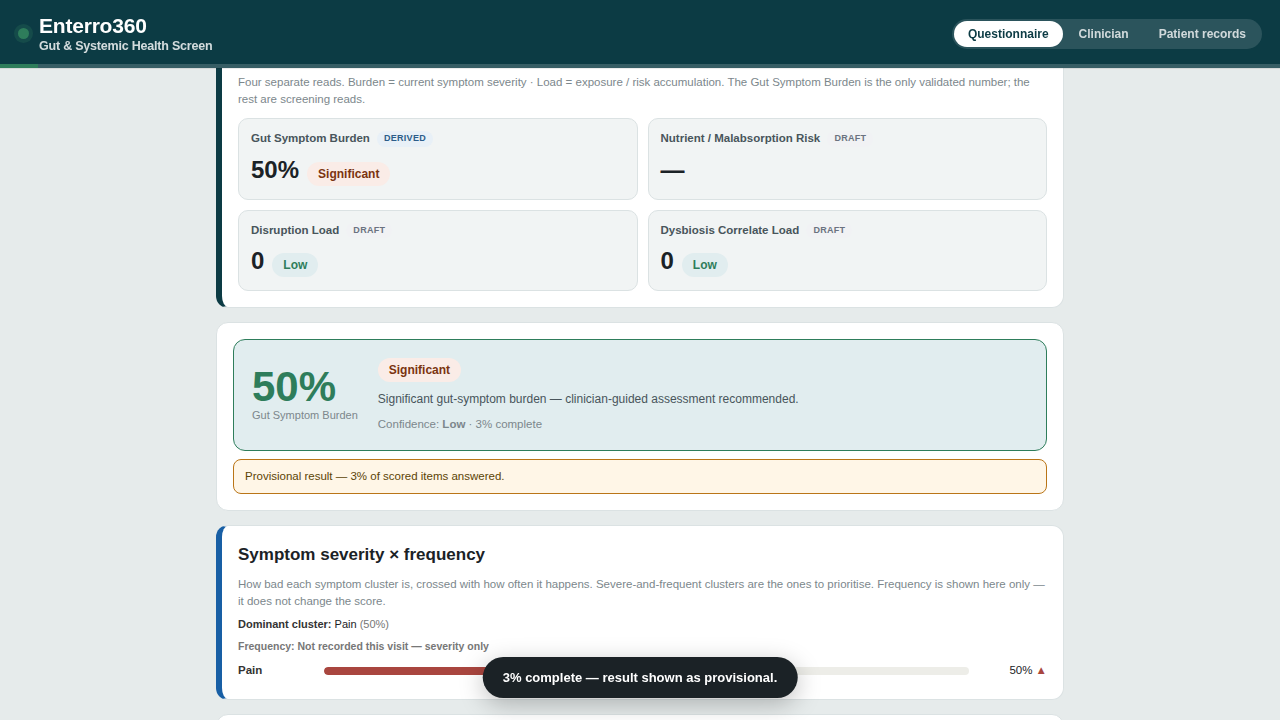
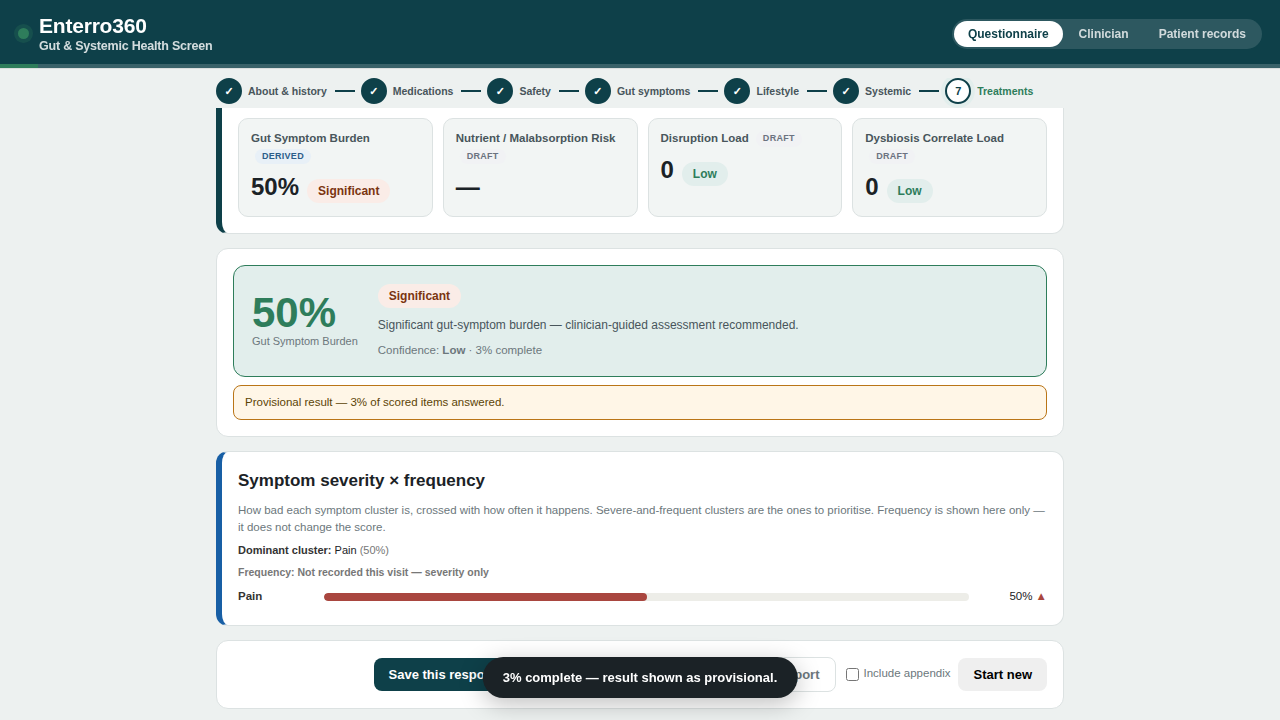
Report restructure: KPI band, priority-ranked patterns, tidied triage
Screen (renderClinician) and print (buildClinicianPrint) now share the same
structure — the D2 "screen = print" document:

- KPI band leads the whole report (promoted headlineCard(), now rendered as
  an auto-fitting tile band instead of a 2-column grid): the four headline
  reads, replacing the old single-stat hero. No longer duplicated further
  down in Interpretation.
- New "Patterns & mechanisms" section: the full ranked pattern list with
  rationale, closing out page 1 (after the burden matrix). Ranked by
  rankPatternsByPriority() — sorted by `strength` (how strongly the fired
  signals hit, an intensity/severity measure), NOT `confidence` (coverage —
  how much data we had), per direction. This is a display-only re-sort on a
  copy; clinicalImpression()'s leading-pattern pick (patterns[0], engine-
  ordered by confidence) and trend persistence are untouched.
- Suggested Actions moved to sit before the Longitudinal trend (was last) —
  a clinician reads the verdict + evidence and wants the action list next;
  the trend is a look-back, not part of deciding what to do this visit.
- triageCard() tidied: the ~17 individual "tri.xNote" one-line paragraphs
  (each its own coloured div) consolidated into a single "Clinical
  considerations" bulleted list — same information, one block instead of a
  wall of near-identical lines. Print's triage box was already this clean;
  only the on-screen version needed the fix.
[…]

diff --git a/index.html b/index.html
@@ -288,6 +288,13 @@ h1{font-size:22px}h2{font-size:17px;margin-bottom:8px}h3{font-size:14px}
   .pr-hero .big{font-size:36px;font-weight:800;color:var(--brand);line-height:.95}
   .pr-hero .sub{font-size:10px;color:#555;margin-top:2px}
   .pr-pill{display:inline-block;padding:2px 8px;border-radius:14px;font-size:10px;font-weight:700;margin-right:3px;border:1px solid rgba(0,0,0,.35)}
+  /* KPI band — the four headline reads as compact stat tiles, print's mirror
+     of the on-screen headlineCard()/kpi band. */
+  .pr-kpi{display:grid;grid-template-columns:repeat(4,1fr);gap:6px;margin-bottom:6px}
+  .pr-kpi-tile{border:1px solid #D0D0C8;border-radius:6px;padding:5px 8px;background:#fff}
+  .pr-kpi-tile .k{font-size:8px;font-weight:700;color:#777;text-transform:uppercase;letter-spacing:.02em}
+  .pr-kpi-tile .v{font-size:16px;font-weight:800;color:var(--brand);margin:1px 0 2px}
+  .pr-kpi-meta{font-size:9.5px;color:#777;margin-bottom:6px}
   .pr-alert{background:var(--alert-p);border:1px solid var(--alert);border-radius:6px;padding:6px 8px;margin-bottom:6px;page-break-inside:avoid;break-inside:avoid}
   .pr-alert-t{font-weight:700;color:var(--alert);font-size:11.5px;margin-bottom:2px}
   .pr-info{background:#FFF3CD;border:1px solid #FECB1F;border-radius:6px;padding:6px 8px;margin-bottom:6px}
@@ -3301,7 +3308,7 @@ function headlineCard(heads, rome) {
   const card = el('div', { class: 'card', style: 'border-left:6px solid var(--brand)' });
   card.appendChild(el('h2', {}, 'Gut & Systemic Health Screen — headline'));
   card.appendChild(el('div', { class: 'q-sub' }, 'Four separate reads. Burden = current symptom severity · Load = exposure / risk accumulation. The Gut Symptom Burden is the only validated number; the rest are screening reads.'));
-  const grid = el('div', { style: 'display:grid;grid-template-columns:repeat(2,1fr);gap:10px;margin-top:10px' });
+  const grid = el('div', { style: 'display:grid;grid-template-columns:repeat(auto-fit,minmax(150px,1fr));gap:10px;margin-top:10px' });
   heads.primaryList.forEach(o => {
     const isPct = o.key === 'gut_symptom_burden' || o.key === 'nutrient_malabsorption_risk';
     const val = o.value == null ? '—' : (isPct ? o.value + '%' : o.value);
@@ -5034,40 +5041,35 @@ function triageCard(tri, rome, showInvestigations, includeInvestigationsList) {
   tcard.appendChild(el('div', { style: 'font-size:13px;color:var(--inks);line-height:1.5;margin-top:6px' }, esc(tri.action)));
   if (tri.reasons.length) tcard.appendChild(el('div', { class: 'q-sub', style: 'margin-top:8px' },
     'Why: ' + tri.reasons.map(r => esc(r.text)).join(' · ')));
-  if (tri.conditionNote) tcard.appendChild(el('div', { class: 'q-sub', style: 'margin-top:6px;color:#7A3410' },
-    'ℹ️ ' + esc(tri.conditionNote)));
-  if (tri.labNote) tcard.appendChild(el('div', { class: 'q-sub', style: 'margin-top:6px;color:#7A3410' },
-    '🧪 ' + esc(tri.labNote)));
-  if (tri.medNote) tcard.appendChild(el('div', { class: 'q-sub', style: 'margin-top:6px;color:#7A3410' },
-    '💊 ' + esc(tri.medNote)));
-  if (tri.autonomicNote) tcard.appendChild(el('div', { class: 'q-sub', style: 'margin-top:6px;color:#7A3410' },
-    '🫀 ' + esc(tri.autonomicNote)));
-  (tri.conditionGuidance || []).forEach(n => tcard.appendChild(el('div', { class: 'q-sub', style: 'margin-top:6px;color:#7A3410' },
-    'ℹ️ ' + esc(n))));
-  (tri.familyNotes || []).forEach(n => tcard.appendChild(el('div', { class: 'q-sub', style: 'margin-top:6px;color:#7A3410' },
-    '🧬 ' + esc(n))));
-  if (tri.gynNote) tcard.appendChild(el('div', { class: 'q-sub', style: 'margin-top:6px;color:#7A3410' },
-    '⚕️ ' + esc(tri.gynNote)));
-  if (tri.pelvicNote) tcard.appendChild(el('div', { class: 'q-sub', style: 'margin-top:6px;color:#7A3410' },
-    '🧷 ' + esc(tri.pelvicNote)));
-  if (tri.anthroNote) tcard.appendChild(el('div', { class: 'q-sub', style: 'margin-top:6px;color:#7A3410' },
-    '📏 ' + esc(tri.anthroNote)));
-  if (tri.durationNote) tcard.appendChild(el('div', { class: 'q-sub', style: 'margin-top:6px;color:#7A3410' },
-    '⏱️ ' + esc(tri.durationNote)));
-  if (tri.bowelFreqNote) tcard.appendChild(el('div', { class: 'q-sub', style: 'margin-top:6px;color:#7A3410' },
-    '🚽 ' + esc(tri.bowelFreqNote)));
-  if (tri.smokingNote) tcard.appendChild(el('div', { class: 'q-sub', style: 'margin-top:6px;color:#7A3410' },
-    '🚬 ' + esc(tri.smokingNote)));
-  if (tri.treatmentsTriedNote) tcard.appendChild(el('div', { class: 'q-sub', style: 'margin-top:6px;color:#7A3410' },
-    '💉 ' + esc(tri.treatmentsTriedNote)));
-  if (tri.coeliacTimingNote) tcard.appendChild(el('div', { class: 'q-sub', style: 'margin-top:6px;color:#7A3410' },
-    '🌾 ' + esc(tri.coeliacTimingNote)));
-  if (tri.restrictionNote) tcard.appendChild(el('div', { class: 'q-sub', style: 'margin-top:6px;color:#7A3410' },
-    '🥗 ' + esc(tri.restrictionNote)));
-  if (tri.referredPainNote) tcard.appendChild(el('div', { class: 'q-sub', style: 'margin-top:6px;color:#7A3410' },
-    '🦴 ' + esc(tri.referredPainNote)));
-  if (tri.restrictionScreenNote) tcard.appendChild(el('div', { class: 'q-sub', style: 'margin-top:6px;color:#7A3410' },
-    '⚠️ ' + esc(tri.restrictionScreenNote)));
+  // Clinical considerations — every management-changing note (condition/lab/
+  // med caveats, family/gyn/pelvic/anthro/duration/lifestyle flags, coeliac
+  // timing, restriction screening, referred pain) consolidated into ONE
+  // bulleted list instead of up to 17 separately-styled one-line paragraphs,
+  // which was the actual clutter in this card — same information, one block.
+  const considerations = [];
+  const note = (icon, text) => { if (text) considerations.push(`${icon} ${esc(text)}`); };
+  note('ℹ️', tri.conditionNote);
+  note('🧪', tri.labNote);
+  note('💊', tri.medNote);
+  note('🫀', tri.autonomicNote);
+  (tri.conditionGuidance || []).forEach(n => note('ℹ️', n));
+  (tri.familyNotes || []).forEach(n => note('🧬', n));
+  note('⚕️', tri.gynNote);
+  note('🧷', tri.pelvicNote);
+  note('📏', tri.anthroNote);
+  note('⏱️', tri.durationNote);
+  note('🚽', tri.bowelFreqNote);
+  note('🚬', tri.smokingNote);
+  note('💉', tri.treatmentsTriedNote);
+  note('🌾', tri.coeliacTimingNote);
+  note('🥗', tri.restrictionNote);
+  note('🦴', tri.referredPainNote);
+  note('⚠️', tri.restrictionScreenNote);
+  if (considerations.length) {
+    tcard.appendChild(el('div', { style: 'font-size:10.5px;font-weight:700;color:var(--am);text-transform:uppercase;letter-spacing:.03em;margin-top:9px' }, 'Clinical considerations'));
+    tcard.appendChild(el('ul', { style: 'font-size:12px;color:#7A5800;margin:3px 0 0 16px;line-height:1.6' },
+      considerations.map(c => `<li>${c}</li>`).join('')));
+  }
   // Patient view (showInvestigations=false) suppresses "Also worth noting" at
   // Tier 1 — a refer instruction should not sit beside "self-management" or
   // "probiotic trial" framing. Clinician view keeps the full tier landscape.
@@ -5292,6 +5294,30 @@ function physioCandidacy(tri) {
     .filter(r => { if (seen.has(r.text)) return false; seen.add(r.text); return true; });
 }
 
+// On-screen patterns table — full rationale per row, ranked by clinical
+// priority (see rankPatternsByPriority), not by data-confidence. The
+// Impression above already leads with the single top pattern; this is the
+// full ranked list behind it. Capped to keep the main view scannable — the
+// Appendix carries the complete signal-level breakdown for every pattern.
+function patternsMechanismsCard(patterns) {
+  if (!patterns || !patterns.length) return null;
+  const ranked = rankPatternsByPriority(patterns);
+  const cap = capList(ranked, 8);
+  const card = el('div', { class: 'card', style: 'border-left:6px solid var(--section)' });
+  card.appendChild(el('h2', {}, sectionTitle('patterns')));
+  card.appendChild(el('div', { class: 'q-sub' },
+    'Ranked by clinical intensity this visit — how strongly the fired signals were present, not by how much data was available.'));
+  const rows = cap.shown.map(p => {
+    const m = patternPriorityMeta(p.strength || 0);
+    return `<tr><td><span class="pill ${m.cls}" style="font-size:9.5px;white-space:nowrap">${esc(m.label)}</span></td><td><b>${esc(p.label)}</b></td><td>${esc(p.desc)}</td></tr>`;
+  }).join('');
+  card.appendChild(el('div', { style: 'overflow-x:auto;margin-top:8px' },
+    `<table class="clin-tbl"><thead><tr><th style="width:12%">Priority</th><th style="width:26%">Pattern</th><th>Rationale &amp; management hint</th></tr></thead><tbody>${rows}</tbody></table>`));
+  if (cap.extra) card.appendChild(el('div', { class: 'q-sub', style: 'margin-top:6px' },
+    `+${cap.extra} further lower-priority pattern${cap.extra > 1 ? 's' : ''}: ${esc(ranked.slice(8).map(p => p.label).join(', '))}.`));
+  return card;
+}
+
 // Single source of truth for the report's SECTION titles, shared by the print
 // (buildClinicianPrint) and on-screen (renderClinician) surfaces so a rename
 // can't drift between them. Descriptive names, no running item numbers — the
@@ -5303,6 +5329,7 @@ const REPORT_SECTIONS = {
   impression: 'Clinical impression',
   burden:     'Symptom burden — severity × frequency',
   plan:       'Assessment & plan',
+  patterns:   'Patterns & mechanisms',
   interp:     'Interpretation',
   context:    'Context & drivers',
   trend:      'Longitudinal trend',
@@ -5310,6 +5337,23 @@ const REPORT_SECTIONS = {
   appendix:   'Full item-level responses',
 };
 function sectionTitle(key) { return REPORT_SECTIONS[key] || key; }
+
+// Display-only re-ranking for the Patterns & mechanisms table: sorted by
+// `strength` (hits/total signals — how strongly the fired criteria were met,
+// a severity/intensity-adjacent measure), NOT `confidence` (coverage —
+// answered/total, i.e. how much data we had). Returns a NEW array; never
+// mutates the source, so clinicalImpression()'s "leading pattern" pick
+// (patterns[0], engine-ordered by confidence) and trend persistence
+// (pattern-id membership, order-independent) are both unaffected.
+function rankPatternsByPriority(patterns) {
+  return (patterns || []).slice().sort((a, b) => (b.strength || 0) - (a.strength || 0));
+}
+// Priority label/pill for a pattern's strength — High ≥0.75, Moderate ≥0.4, else Low.
+function patternPriorityMeta(strength) {
+  if (strength >= 0.75) return { label: 'High', cls: 'sev-sev' };
+  if (strength >= 0.4) return { label: 'Moderate', cls: 'sev-mod' };
+  return { label: 'Low', cls: 'sev-min' };
+}
 
 // Case-insensitive de-dup preserving first-seen order — used to collapse the
 // repeated triage reasons / investigation suggestions that several fired patterns
@@ -5450,11 +5494,18 @@ function buildClinicianPrint(c, opts) {
 
   // Headline score — big number + band + confidence, unmissable and stated ONCE
   // (the impression below leads with the pattern, not a restatement of these).
-  h += `<div class="pr-hero">
-    <div><div class="big">${sv.index == null ? '—' : sv.index + '%'}</div><div class="sub">Gut Symptom Burden</div></div>
-    <div style="flex:1;min-width:160px">${sv.label ? `<span class="pr-pill" style="background:${bandBg(sv.label)};font-size:12px;padding:3px 10px">${esc(sv.label)}${sv.peakEscalated ? ' ↑' : ''}</span>` : ''}
-      <div style="font-size:9.5px;color:#777;margin-top:6px">Confidence: ${esc(conf.level)} · ${score.completeness}% complete</div></div>
-  </div>`;
+  // KPI band — the four headline reads as compact tiles, mirroring the
+  // on-screen headlineCard()/kpi band (report restructure: promoted from
+  // page 2's Interpretation section to lead the whole report).
+  {
+    const isPct = (o) => o.key === 'gut_symptom_burden' || o.key === 'nutrient_malabsorption_risk';
+    const tileHtml = (o) => {
+      const val = o.value == null ? '—' : (isPct(o) ? o.value + '%' : o.value);
+      return `<div class="pr-kpi-tile"><div class="k">${esc(o.label)}</div><div class="v">${esc(String(val))}</div>${o.band ? prBandPill(o.band) : ''}</div>`;
+    };
+    h += `<div class="pr-kpi">${heads.primaryList.map(tileHtml).join('')}</div>
+      <div class="pr-kpi-meta">Confidence: ${esc(conf.level)} · ${score.completeness}% complete${sv.peakEscalated ? ' · displayed band raised by a peak-symptom alert (below)' : ''}</div>`;
+  }
 
   // ── Section 1 — Triage tier + care-track badges, then Red flags. ──────────
   const tierCls = ['', 't1', 't2', 't3', 't4'][tri.level] || 't4';
@@ -5526,6 +5577,24 @@ function buildClinicianPrint(c, opts) {
   }
   h += `</div>`;
 
+  // ── Section 4 — Patterns & mechanisms, ranked by clinical priority (not
+  // data-confidence) — closes out page 1: verdict, safety, evidence. A
+  // display-only re-sort of `patterns` (rankPatternsByPriority never mutates
+  // the source array), so the Impression's leading-pattern pick above
+  // (patterns[0], engine-ordered by confidence) is unaffected. ─────────────
+  if (patterns.length) {
+    const ranked = rankPatternsByPriority(patterns);
+    const patCap = capList(ranked, 8);
+    h += `<div class="pr-section"><div class="pr-sh">${sectionTitle('patterns')}</div>
+      <div style="page-break-inside:avoid;break-inside:avoid">
+      <table class="pr-tbl"><colgroup><col style="width:12%"><col style="width:22%"><col style="width:66%"></colgroup><thead><tr><th>Priority</th><th>Pattern</th><th>Rationale &amp; management hint</th></tr></thead><tbody>
+        ${patCap.shown.map(p => { const m = patternPriorityMeta(p.strength || 0); return `<tr><td><span class="pr-pill" style="background:${bandBg(m.label === 'High' ? 'Severe' : m.label === 'Moderate' ? 'Mild–Moderate' : '')};font-size:9px">${esc(m.label)}</span></td><td><b>${esc(p.label)}</b></td><td>${esc(p.desc)}</td></tr>`; }).join('')}
+      </tbody></table>
+      ${patCap.extra ? `<div style="font-size:9px;color:#888;margin-top:2px">+${patCap.extra} further lower-priority pattern${patCap.extra > 1 ? 's' : ''}: ${esc(ranked.slice(8).map(p => p.label).join(', '))}.</div>` : ''}
+      ${(tri.patternOverlapNotes && tri.patternOverlapNotes.length) ? `<ul style="font-size:9.5px;color:#185FA5;padding-left:16px;margin:4px 0 0">${tri.patternOverlapNotes.map(n => `<li>🔗 ${esc(n)}</li>`).join('')}</ul>` : ''}
+      </div></div>`;
+  }
+
   // ============================================================
   // PAGE 2 — Assessment & clinical detail. The Tier verdict, reasons, and
   // care-track badges already led on page 1 (Section 1) — page 2 opens
@@ -5537,25 +5606,13 @@ function buildClinicianPrint(c, opts) {
   h += `<div class="pr-grp pr-page-break">Page 2 · Assessment &amp; clinical detail</div>`;
   const physio = physioCandidacy(tri);
 
-  // Interpretation — the reads behind the verdict: symptom patterns, the Rome IV
-  // bowel-pain estimate, the axis profile (each microbiome load's signals folded
-  // in beneath its own row), and the GSRS domain breakdown at section level (the
-  // per-cluster severity lives once, in the burden matrix on page 1).
+  // Interpretation — the reads behind the verdict: the Rome IV bowel-pain
+  // estimate, the axis profile (each microbiome load's signals folded in
+  // beneath its own row), and the GSRS domain breakdown at section level.
+  // Symptom patterns now lead page 1 (Patterns & mechanisms, ranked by
+  // priority) instead of repeating here; per-cluster severity lives once, in
+  // the burden matrix, also on page 1.
   h += `<div class="pr-section"><div class="pr-sh">${sectionTitle('interp')}</div>`;
-
-  // Patterns — engine-ordered by priority then confidence, so the most actionable
-  // reads lead. Cap the printed table to the top 6 prominent patterns; any
-  // remainder is noted as a count rather than a full row (keeps the table scannable
-  // for complex patients where 8–10 patterns fire).
-  if (patterns.length) {
-    const patCap = capList(patterns, 6);
-    h += `<div style="margin-bottom:6px;page-break-inside:avoid;break-inside:avoid"><div style="font-weight:600;font-size:11px;margin-bottom:2px">Prominent patterns${patCap.extra ? ` (top 6 of ${patterns.length})` : ''}</div>
-      <table class="pr-tbl"><colgroup><col style="width:26%"><col style="width:74%"></colgroup><thead><tr><th>Pattern</th><th>Rationale</th></tr></thead><tbody>
-        ${patCap.shown.map(p => `<tr><td><b>${esc(p.label)}</b></td><td>${esc(p.desc)}</td></tr>`).join('')}
-      </tbody></table>
-      ${patCap.extra ? `<div style="font-size:9px;color:#888;margin-top:2px">+${patCap.extra} further lower-priority pattern${patCap.extra > 1 ? 's' : ''}: ${esc(patterns.slice(6).map(p => p.label).join(', '))}.</div>` : ''}
-      ${(tri.patternOverlapNotes && tri.patternOverlapNotes.length) ? `<ul style="font-size:9.5px;color:#185FA5;padding-left:16px;margin:4px 0 0">${tri.patternOverlapNotes.map(n => `<li>🔗 ${esc(n)}</li>`).join('')}</ul>` : ''}</div>`;
-  }
 
   // Rome IV — full criteria table only when answered; otherwise a single line, so
   // an unanswered Rome IV doesn't print five empty rows.
@@ -5717,6 +5774,13 @@ function buildClinicianPrint(c, opts) {
   }
   h += `</div>`;
 
+  // Suggested Actions — comes BEFORE the trend: a clinician reads the verdict
+  // (page 1) and the evidence (Interpretation / Context & drivers) and wants
+  // the action list next; the longitudinal trend is a look-back. Two columns:
+  // Investigations & Diagnostics (tests) and Management & Therapeutics
+  // (referrals, trials, therapies — physio candidacy folded in here).
+  h += `<div class="pr-section"><div class="pr-sh">${sectionTitle('actions')}</div>${actionColumnsHtml(tri, physio)}</div>`;
+
   // Longitudinal trend — only rendered when there is a prior visit to compare
   // against (a single baseline visit has nothing to trend, so the section is
   // omitted rather than printed empty). Interventions per visit are overlaid so
@@ -5741,13 +5805,6 @@ function buildClinicianPrint(c, opts) {
     </div>`;
     h += `</div>`;
   }
-
-  // Suggested Actions — deliberately LAST on page 2: a clinician reads the
-  // verdict (page 1) and the evidence (Interpretation / Context & drivers)
-  // before the action list. Two columns: Investigations & Diagnostics (tests)
-  // and Management & Therapeutics (referrals, trials, therapies — physio
-  // candidacy folded in here, see actionColumnsHtml).
-  h += `<div class="pr-section"><div class="pr-sh">${sectionTitle('actions')}</div>${actionColumnsHtml(tri, physio)}</div>`;
 
   // ============================================================
   // PAGE 3+ — appendix: full item-level questionnaire responses. Optional —
@@ -5876,26 +5933,22 @@ function renderClinician() {
 
   // ============================================================
   // PAGE 1 — Safety & acute presentation (mirrors the print hybrid layout):
-  // headline score, Triage tier + care-track badges, Red flags, then Clinical
-  // impression + Peak-symptom alert, then the burden matrix.
-  // The full investigations/management list lives in Suggested Actions on
-  // page 2 — page 1 carries only the verdict + the caveats that change it.
+  // KPI band, Triage tier + care-track badges, Red flags, then Clinical
+  // impression + Peak-symptom alert, the burden matrix, and the ranked
+  // patterns table. The full investigations/management list lives in
+  // Suggested Actions — page 1 carries only the verdict + what changes it.
   // ============================================================
   root.appendChild(el('div', { class: 'rpt-grp' }, 'Page 1 · At a glance'));
 
-  // Headline score — big number + band + confidence, stated ONCE (the impression
-  // below leads with the pattern, not a restatement of these).
-  const hero = el('div', { class: 'card' });
-  hero.appendChild(el('div', { class: 'hero' },
-    `<div><div class="big">${sv.index == null ? '—' : sv.index + '%'}</div><div class="sub">Gut Symptom Burden</div></div>
-     <div style="flex:1;min-width:160px">${sv.label ? `<span class="pill ${sv.cls || bandPillClass(sv.label)}">${esc(sv.label)}${sv.peakEscalated ? ' ↑' : ''}</span>` : ''}
-     <div class="conf-note">Confidence: <b>${esc(conf.level)}</b> · ${score.completeness}% complete</div></div>`));
-  // Only shown when the screen is genuinely incomplete — explains why the
-  // cards below may read as empty/dashed rather than looking like a broken
-  // report. Mirrors calc()'s equivalent caveat on the patient-facing screen.
-  if (score.completeness < 80) hero.appendChild(el('div', { class: 'prov-caveat' },
+  // KPI band — the four headline reads as a compact tile row (headlineCard's
+  // grid auto-fits into a band on wide screens), stated ONCE up top so the
+  // whole picture is visible before anything else. Confidence/completeness
+  // and the provisional caveat ride on the same card, just below the tiles.
+  const kpi = headlineCard(heads, rome);
+  kpi.appendChild(el('div', { class: 'conf-note' }, `Confidence: <b>${esc(conf.level)}</b> · ${score.completeness}% complete`));
+  if (score.completeness < 80) kpi.appendChild(el('div', { class: 'prov-caveat' },
     `Provisional result — ${score.completeness}% of scored items answered.`));
-  root.appendChild(hero);
+  root.appendChild(kpi);
 
   // Assessment & plan — triage verdict + care-track badges, leads page 1 (the
   // investigations/management list moved to Suggested Actions, at the end).
@@ -5945,6 +5998,15 @@ function renderClinician() {
   root.appendChild(el('div', { class: 'grp-label' }, sectionTitle('burden')));
   root.appendChild(severityFrequencyCard(score, extras));
 
+  // Patterns & mechanisms — the full ranked list behind the Impression's
+  // single leading pattern above, ranked by clinical intensity (not
+  // data-confidence). Closes out page 1: verdict, safety, evidence.
+  const patCard = patternsMechanismsCard(c.patterns);
+  if (patCard) {
+    root.appendChild(el('div', { class: 'grp-label' }, sectionTitle('patterns')));
+    root.appendChild(patCard);
+  }
+
   // ============================================================
   // PAGE 2 — Assessment & clinical detail. The tier verdict already led on
   // page 1 — page 2 opens straight into the evidence behind it (Interpretation:
@@ -5953,14 +6015,11 @@ function renderClinician() {
   // ============================================================
   root.appendChild(el('div', { class: 'rpt-grp' }, 'Page 2 · Assessment & clinical detail'));
 
-  // Interpretation — the reads behind the verdict: headline axis reads, axis
-  // profile, and GSRS domain/cluster breakdown. The Symptom x Dysbiosis-
-  // correlate quadrant card was removed — the Dysbiosis Correlate Load
-  // number in the headline card above now carries the same weighted E3 tier
-  // (High/Moderate/Low) as its pill colour, so an elevated correlate load is
-  // already highlighted there without a second card repeating it.
+  // Interpretation — the reads behind the verdict: axis profile and GSRS
+  // domain/cluster breakdown. The four-way headline now leads the report as
+  // the KPI band (page 1) instead of repeating here — the Dysbiosis Correlate
+  // Load number there already carries the weighted E3 tier as its pill colour.
   root.appendChild(el('div', { class: 'grp-label' }, sectionTitle('interp')));
-  root.appendChild(headlineCard(heads, rome));
   root.appendChild(axisProfileCard(profile, heads));
   root.appendChild(domainBarsCard(score, true));   // full domain breakdown incl. GSRS cluster shape
 
@@ -5969,6 +6028,18 @@ function renderClinician() {
   // them into a two-column block).
   root.appendChild(el('div', { class: 'grp-label' }, sectionTitle('context')));
   root.appendChild(modifiableDriversCard(driverExtras));
+
+  // Suggested Actions — comes BEFORE the trend: a clinician reads the verdict
+  // (page 1) and the evidence (Interpretation / Context & drivers) and wants
+  // the action list next; the longitudinal trend is a look-back, not part of
+  // deciding what to do this visit. Two columns: Investigations & Diagnostics,
+  // Management & Therapeutics (physiotherapy candidacy folded in).
+  root.appendChild(el('div', { class: 'grp-label' }, sectionTitle('actions')));
+  const physio = physioCandidacy(tri);
+  const actionsCard = el('div', { class: 'card', style: 'border-left:6px solid #7A4A8C' });
+  actionsCard.appendChild(el('h2', {}, sectionTitle('actions')));
+  actionsCard.appendChild(el('div', {}, actionColumnsHtml(tri, physio)));
+  root.appendChild(actionsCard);
 
   // Longitudinal trend — editable interventions for this visit (post-intake),
   // overlaid on the trend below so symptom change reads against what was tried.
@@ -5982,17 +6053,6 @@ function renderClinician() {
   } else {
     if (prior.length >= 1) root.appendChild(trendCard(prior.concat([currentVisit()]), true));
   }
-
-  // Suggested Actions — deliberately LAST: a clinician reads the verdict
-  // (page 1) and the evidence (Interpretation / Context & drivers) before the
-  // action list. Two columns: Investigations & Diagnostics, Management &
-  // Therapeutics (physiotherapy candidacy folded in — a therapeutic referral).
-  root.appendChild(el('div', { class: 'grp-label' }, sectionTitle('actions')));
-  const physio = physioCandidacy(tri);
-  const actionsCard = el('div', { class: 'card', style: 'border-left:6px solid #7A4A8C' });
-  actionsCard.appendChild(el('h2', {}, sectionTitle('actions')));
-  actionsCard.appendChild(el('div', {}, actionColumnsHtml(tri, physio)));
-  root.appendChild(actionsCard);
 
   // ============================================================
   // PAGE 3+ — Appendix: item-level responses, history & context, Rome IV